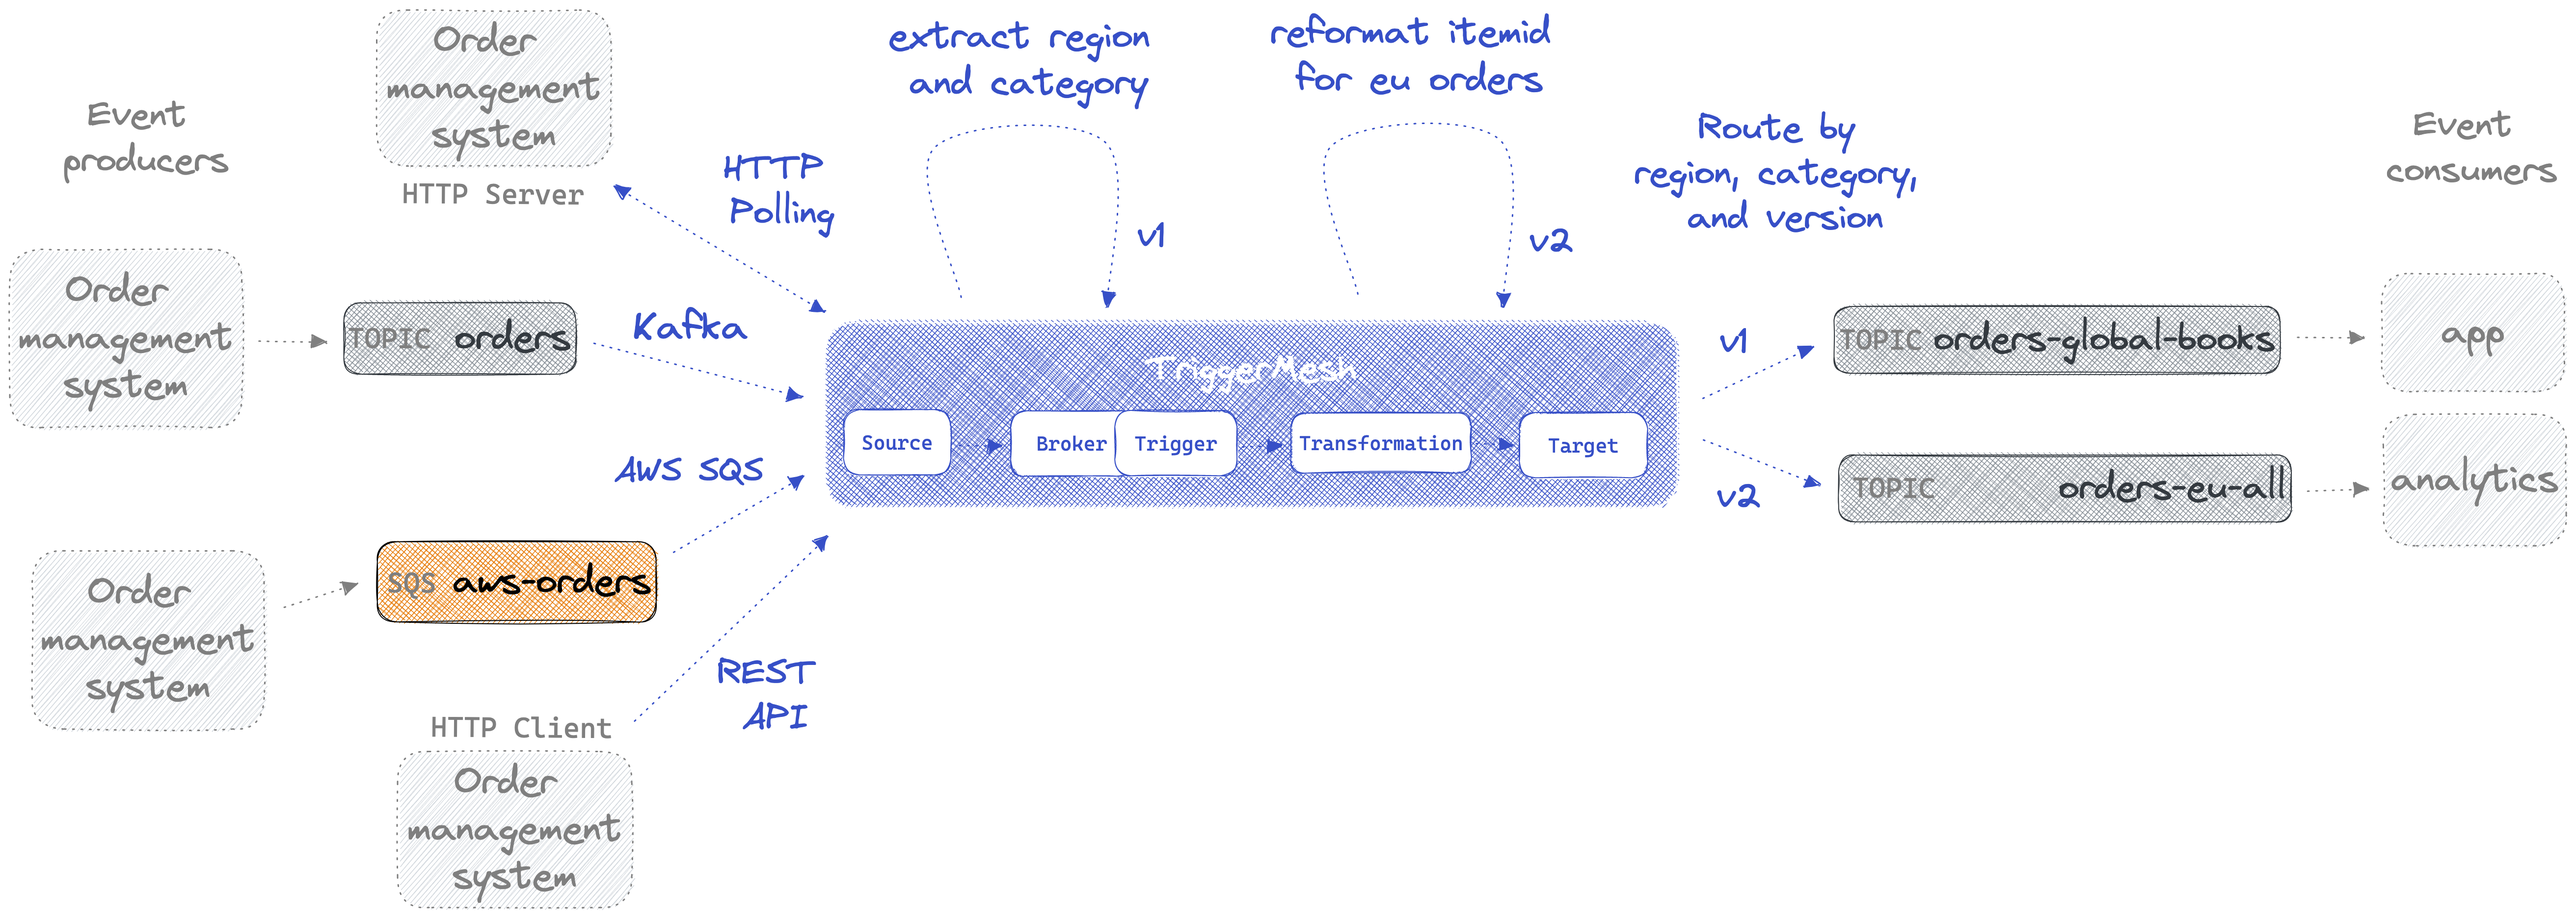
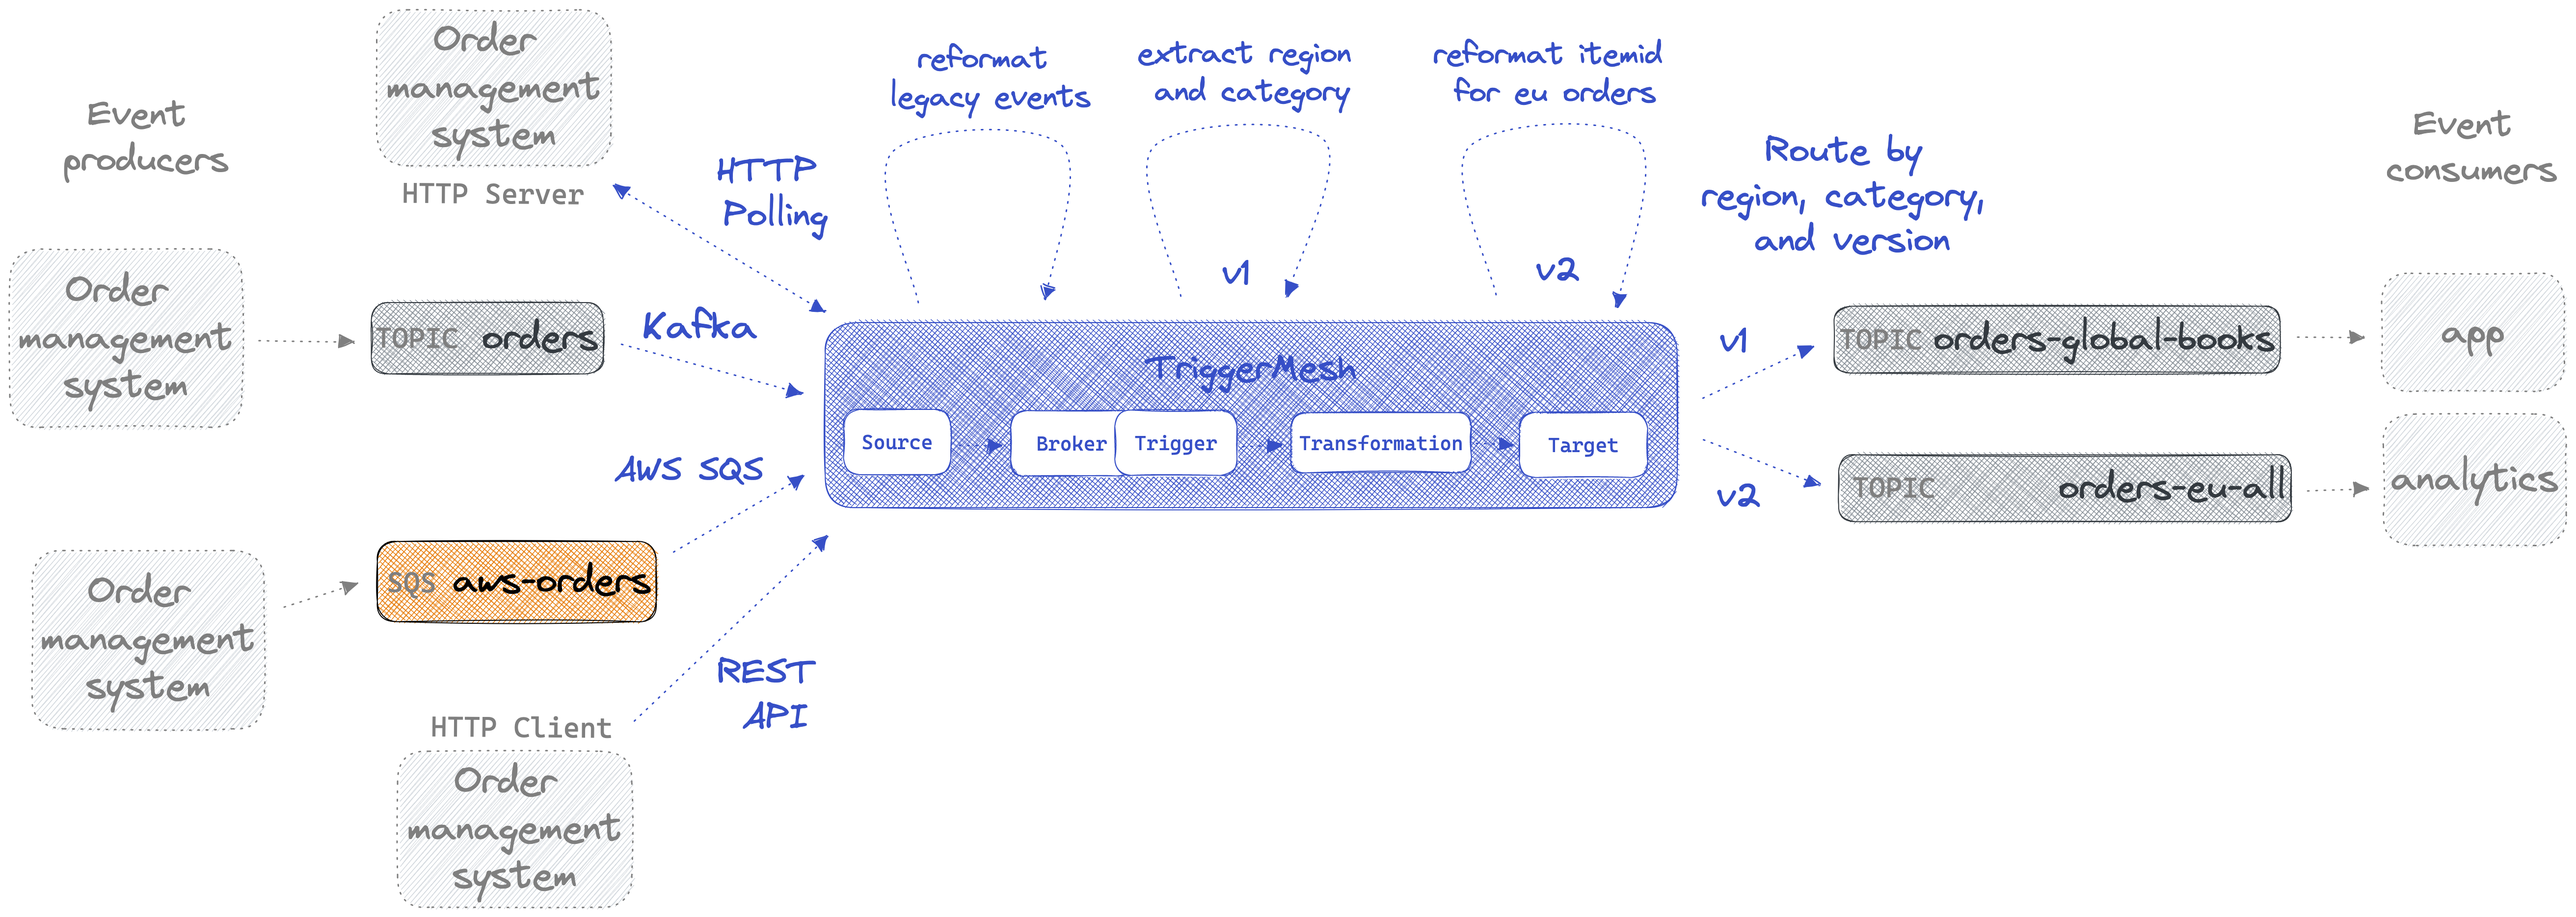
updates

diff --git a/unify-event-sources/README.md b/unify-event-sources/README.md
@@ -4,11 +4,18 @@ Shows how TriggerMesh can capture orders from heterogenous sources and transform
 
 ![image](schema.png)
 
+Tech specs
+* RedPanda v22.2.1 with docker compose
+* TriggerMesh 1.23 and tmctl 1.1.0
+* Dovker Desktop on MacOS
+
+Reach out on Slack or GitHub if you need help getting it to run on a different platform.
+
 ## Setup credentials, Kafka and TriggerMesh
 
 You can store the Kafka bootstrapServer URLs in file in the `config` folder called `bootstrap.servers.txt`
 
-For the AWS SQS source part of this demo (optional), you can store the AWS credentials in files in the `config` folder called `auth.credentials.accessKeyID.txt` and `auth.credentials.secretAccessKey.txt`.
+For the AWS SQS source part of this demo (optional), you can store the AWS credentials in files in the `config` folder called `auth.credentials.accessKeyID.txt` and `auth.credentials.secretAccessKey.txt`, and the queue's arn in `sqs.arn.txt`.
 
 The provided docker-compose file will start a single node RedPanda cluster. It is configured to work with docker desktop and could require some adjustments to the listeners and advertised listeners for it to work in other contexts. Reach out to us on Slack or GitHub if you need help, or see [here](https://www.confluent.io/blog/kafka-listeners-explained/) if you want to deep dive on this.
 
@@ -138,27 +145,27 @@ Now we should see EU topics getting the transformed version of the itemID, test 
 The next order management system whose events we need to integrate is pushing orders to us via HTTP. So we'll create a webhook source for that:
 
 ```sh
-tmctl create source webhook --name orders-webhook --eventType orders-webhook-raw
+tmctl create source webhook --name orders-webhook --eventType orders-legacy
 ```
 
-The event we're sending into the webhook (see mock-events/us_groceries_raw.json) is not formatted properly, so we'll transform it:
+The event we're sending into the webhook (see mock-events/legacy_event.json) is not formatted properly, so we'll transform it:
 
 ```sh
-tmctl create transformation --name transform-orders-webhook-raw -f transformations/orders-webhook-raw.yaml
-tmctl create trigger --eventTypes orders-webhook-raw --target transform-webhook-raw
+tmctl create transformation --name transform-orders-webhook-legacy -f transformations/orders-webhook-legacy.yaml
+tmctl create trigger --eventTypes orders-legacy --target transform-orders-webhook-legacy
 ```
 
 To test this, we can do:
 
 ```sh
-curl -X POST -H "Content-Type: application/json" -d @mock-events/webhook_raw.json <webhook URL>
+curl -X POST -H "Content-Type: application/json" -d @mock-events/legacy_event.json <webhook URL>
 ```
 
-To get the webhook’s URL, you can use tmctl describe and find the URL next to the webhook component called orders-webhook.
+To get the webhook’s URL, you can use `tmctl describe` and find the URL next to the webhook component called `orders-webhook`.
 
 ## Add a new HTTP poller source
 
-The next order management system whose events we need to integrate provides and HTTP API that we need to regularly poll for new events. First we'll start a mock HTTP service locally to simulate this service, in a new terminal. Start is at the root of this repo so it can access the right mock json events:
+The next order management system whose events we need to integrate provides and HTTP API that we need to regularly poll for new events. First we'll start a mock HTTP service locally to simulate this service, in a new terminal. Start it at the root of this repo so it can access the right mock json events:
 
 ```sh
 python3 -m http.server 8000
@@ -167,7 +174,7 @@ python3 -m http.server 8000
 Now we create the HTTP Poller:
 
 ```sh
-tmctl create source httppoller --name eu-books-httppoller --method GET --endpoint http://host.docker.internal:8000/mock-events/example_event_2.json --interval 10s --eventType io.triggermesh.kafka.event
+tmctl create source httppoller --name orders-httppoller --method GET --endpoint http://host.docker.internal:8000/mock-events/legacy_event.json --interval 10s --eventType io.triggermesh.kafka.event
 ```
 
 ## Add a new SQS source
@@ -175,7 +182,7 @@ tmctl create source httppoller --name eu-books-httppoller --method GET --endpoin
 Another team says they want to provide orders into the system from AWS SQS. Let's read from the queue. You need to provide the files with the AWS credentials.
 
 ```sh
-tmctl create source awssqs --arn arn:aws:sqs:us-east-1:043455440429:jmcx-queue --auth.credentials.accessKeyID $(cat config/auth.credentials.accessKeyID.txt) --auth.credentials.secretAccessKey $(cat config/auth.credentials.secretAccessKey.txt)
+tmctl create source awssqs --arn $(cat config/sqs.arn.txt) --auth.credentials.accessKeyID $(cat config/auth.credentials.accessKeyID.txt) --auth.credentials.secretAccessKey $(cat config/auth.credentials.secretAccessKey.txt)
 ```
 
 AWS SQS has lots of extra metadata we don't need, we'll extract the body of the SQS message so that the incoming event matches the schema we want:
@@ -183,15 +190,6 @@ AWS SQS has lots of extra metadata we don't need, we'll extract the body of the 
 ```sh
 tmctl create transformation --name transform-sqs-orders -f transformations/orders-transform-sqs.yaml
 tmctl create trigger --eventTypes com.amazon.sqs.message --target transform-sqs-orders
-```
-
-## Adding a new target topic on the fly
-
-We're asked to create a new topic for all eu orders, irrespective of category, for a new analytics team.
-
-```sh
-tmctl create target kafka --name orders-eu-all-target --topic orders-eu-all --bootstrapServers $(cat config/bootstrap.servers.txt)
-tmctl create trigger --eventTypes eu-fashion-v2,eu-books-v2 --target orders-global-electronics-target
 ```
 
 ## Running on K8s
